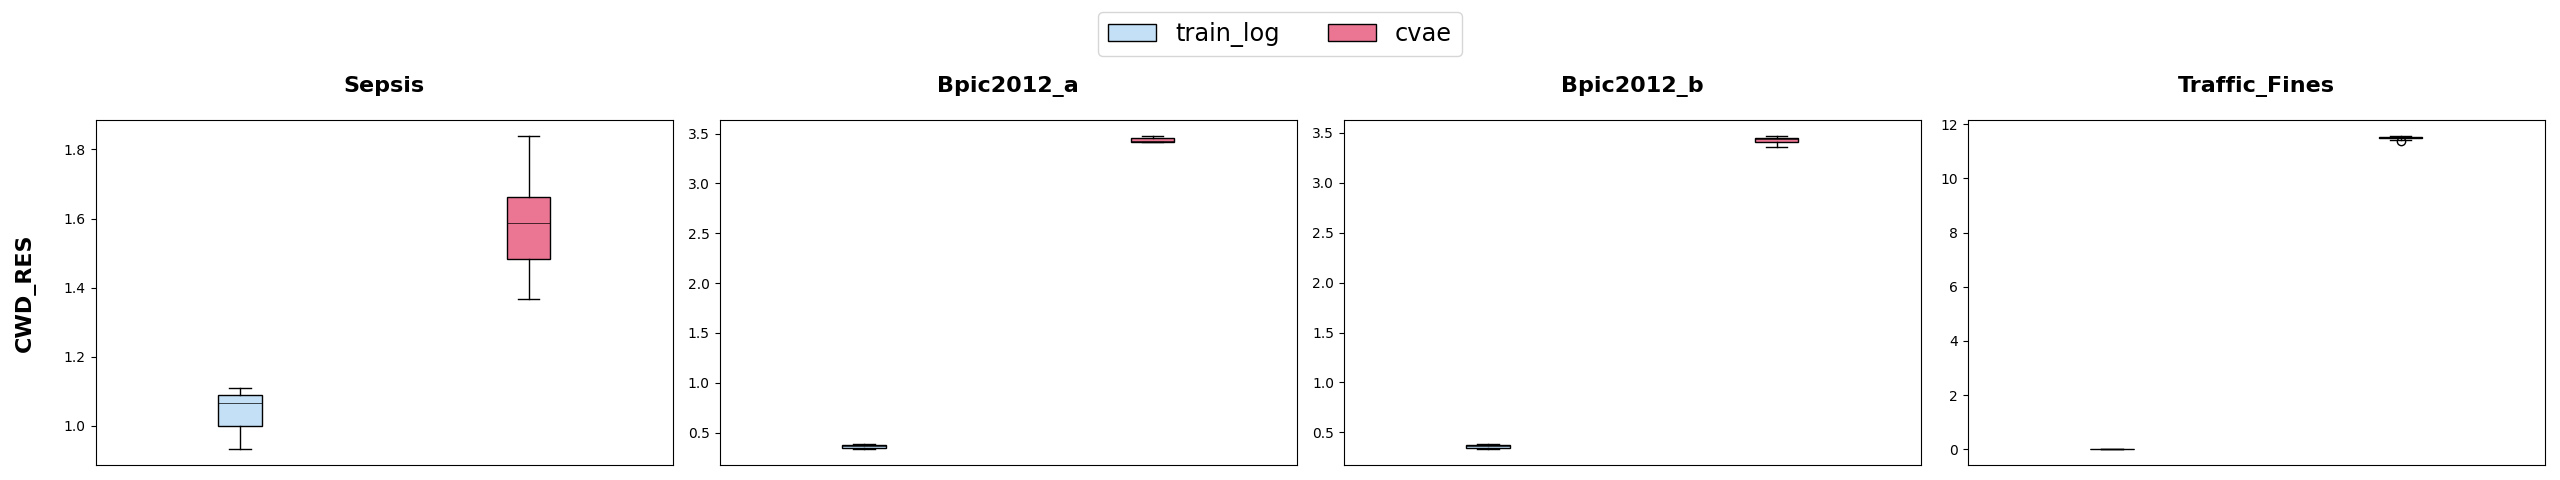
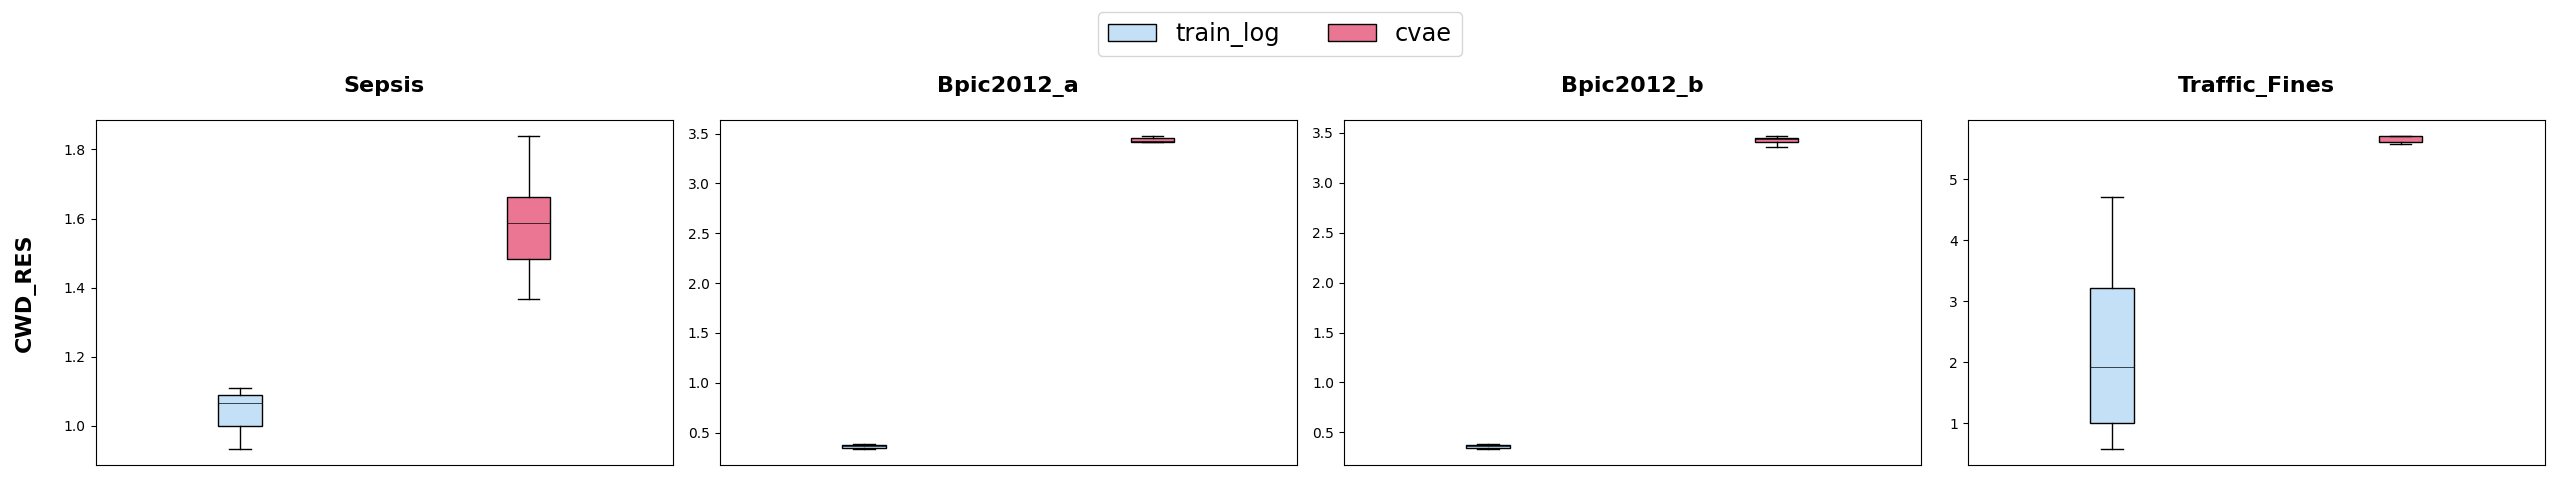
Update CWD computation for traffic_fines log

Changed region(s): [[0.8125, 0.5938, 0.8438, 0.9062], [0.9062, 0.2812, 0.9688, 0.3125]]

diff --git a/evaluation/cwd_custom.py b/evaluation/cwd_custom.py
@@ -1,0 +1,190 @@
+from statistics import mean
+
+import pandas as pd
+from scipy.stats import wasserstein_distance
+
+from log_distance_measures.config import EventLogIDs, DistanceMetric
+from log_distance_measures.earth_movers_distance import earth_movers_distance
+from log_distance_measures.config import DEFAULT_CSV_IDS
+import pandas as pd
+import matplotlib.pyplot as plt
+import numpy as np
+
+
+def circadian_workforce_distribution_distance1(
+        original_log: pd.DataFrame,
+        original_ids: EventLogIDs,
+        simulated_log: pd.DataFrame,
+        simulated_ids: EventLogIDs,
+        metric: DistanceMetric = DistanceMetric.WASSERSTEIN,
+        normalize: bool = False
+) -> float:
+    """
+    EMD (or Wasserstein Distance) between the distribution of the workforce by hour (number of observed active workers
+    in each hour) in two event logs, windowed by weekday (e.g., the workforces measured for each Monday in a log are
+    aggregated as an average into one single Monday).
+
+    :param original_log: first event log.
+    :param original_ids: mapping for the column IDs of the first event log.
+    :param simulated_log: second event log.
+    :param simulated_ids: mapping for the column IDs for the second event log.
+    :param metric: distance metric to use in the histogram comparison.
+    :param normalize: whether to normalize the distance metric to a value in [0.0, 1.0]
+
+    :return: the EMD between the timestamp distribution of the two event logs windowed by weekday.
+    """
+    # Get discretized start and/or end timestamps
+    original_discrete_events = _discretize1(original_log, original_ids)
+    simulated_discrete_events = _discretize1(simulated_log, simulated_ids)
+    # Compute the distance between the instant in the event logs for each weekday
+    distances = []
+    for week_day in range(7):  # All weekdays
+        original_window = original_discrete_events[original_discrete_events['weekday'] == week_day]
+        simulated_window = simulated_discrete_events[simulated_discrete_events['weekday'] == week_day]
+        if len(original_window) > 0 and len(simulated_window) > 0:
+            # Compute 2-D dict with each bin (hour) and its number of observations
+            original_2d = original_window.drop('weekday', axis=1).set_index('hour')['workforce'].to_dict()
+            simulated_2d = simulated_window.drop('weekday', axis=1).set_index('hour')['workforce'].to_dict()
+            # Both have observations in this weekday
+            if metric == DistanceMetric.EMD:
+                distances += [earth_movers_distance(original_2d, simulated_2d) / sum(original_window['workforce'])]
+            else:
+                # Transform to 1D array
+                original_1d = [element for key in original_2d for element in [key] * int(original_2d[key] * 100)]
+                simulated_1d = [element for key in simulated_2d for element in [key] * int(simulated_2d[key] * 100)]
+                # Measure 1-WD
+
+                # Create histograms
+                plt.figure(figsize=(10, 5))
+
+                plt.subplot(1, 2, 1)
+                plt.hist(original_1d, bins=len(original_2d), alpha=0.7, color='blue', edgecolor='black')
+                plt.title("Original Distribution")
+                plt.xlabel("Value")
+                plt.ylabel("Frequency")
+
+                plt.subplot(1, 2, 2)
+                plt.hist(simulated_1d, bins=len(simulated_2d), alpha=0.7, color='red', edgecolor='black')
+                plt.title("Simulated Distribution")
+                plt.xlabel("Value")
+                plt.ylabel("Frequency")
+
+                plt.tight_layout()
+                plt.show()
+
+                distances += [wasserstein_distance(original_1d, simulated_1d)]
+        elif len(original_window) == 0 and len(simulated_window) == 0:
+            # Both have no observations in this weekday
+            distances += [0.0]
+        else:
+            # Only one has observations in this weekday, penalize with max distance value
+            distances += [23.0]  # 23 is the maximum value for two histograms with values between 0 and 23.
+    # Compute distance metric
+    print(distances)
+    distance = mean(distances)
+    if normalize:
+        distance = distance / 23.0
+    # Return metric
+    return distance
+
+def circadian_workforce_distribution_distance_weekly(
+        original_log: pd.DataFrame,
+        original_ids: EventLogIDs,
+        simulated_log: pd.DataFrame,
+        simulated_ids: EventLogIDs,
+        metric: DistanceMetric = DistanceMetric.WASSERSTEIN,
+        normalize: bool = False
+) -> float:
+    """
+    EMD (or Wasserstein Distance) between the distribution of the workforce by hour (number of observed active workers
+    in each hour) in two event logs, windowed by weekday (e.g., the workforces measured for each Monday in a log are
+    aggregated as an average into one single Monday).
+
+    :param original_log: first event log.
+    :param original_ids: mapping for the column IDs of the first event log.
+    :param simulated_log: second event log.
+    :param simulated_ids: mapping for the column IDs for the second event log.
+    :param metric: distance metric to use in the histogram comparison.
+    :param normalize: whether to normalize the distance metric to a value in [0.0, 1.0]
+
+    :return: the EMD between the timestamp distribution of the two event logs windowed by weekday.
+    """
+    # Get discretized start and/or end timestamps
+    original_discrete_events = _discretize1(original_log, original_ids).drop('hour', axis=1)
+    original_discrete_events = [int(x) for x in original_discrete_events['workforce'].tolist()]
+    # print(original_discrete_events)
+
+    simulated_discrete_events = _discretize1(simulated_log, simulated_ids).drop('hour', axis=1)
+    simulated_discrete_events = [int(x) for x in simulated_discrete_events['workforce'].tolist()]
+    # print(simulated_discrete_events)
+
+    distances = []
+
+    distances += [wasserstein_distance(original_discrete_events, simulated_discrete_events)]
+    # Compute distance metric
+    distance = mean(distances)
+
+    # Return metric
+    return distance
+
+
+def _discretize1(
+        event_log: pd.DataFrame,
+        log_ids: EventLogIDs,
+) -> pd.DataFrame:
+    """
+    Create a pd.Dataframe storing, for each hour (0-23) of each weekday, the average number of different resources
+    that were actively working (an event associated to them was registered in that hour) through the entire event log.
+
+    :param event_log: event log to measure the workforces of.
+    :param log_ids: mapping for the column IDs of the event log.
+
+    :return: A pd.Dataframe with the average active workforce for each hour for each day of the week.
+    """
+    # Get the instants to discretize
+    # log_ids.start_time = "time:timestamp"
+    # log_ids.resource = "resource"
+    # log_ids.end_time = "time:timestamp"
+    start_times = event_log[[log_ids.start_time, log_ids.resource]].rename(columns={log_ids.start_time: 'instant'})
+    end_times = event_log[[log_ids.end_time, log_ids.resource]].rename(columns={log_ids.end_time: 'instant'})
+    discretized = pd.concat([start_times, end_times]).reset_index(drop=True)
+    # Add their weekday, hour and combination day-hour
+    discretized['weekday'] = discretized['instant'].apply(lambda instant: instant.day_of_week)
+    discretized['hour'] = discretized['instant'].apply(lambda instant: instant.hour)
+    discretized['day-hour'] = discretized['instant'].apply(lambda instant: instant.strftime(format="%Y-%m-%d %H"))
+    # Compute observed number of Mondays, Tuesdays...
+    discretized['day'] = discretized['instant'].apply(lambda instant: instant.strftime(format="%Y-%m-%d"))
+    days = discretized[['day', 'weekday']].drop_duplicates().groupby('weekday').size().to_dict()
+    # Keep unique resources per day-hour
+    discretized.drop_duplicates(subset=['day-hour', log_ids.resource], inplace=True)
+    # Aggregate number of resources per day of the week and hour, and compute avg
+    discretized = discretized.groupby(['weekday', 'hour']).size().reset_index().rename(columns={0: 'workforce'})
+    discretized['workforce'] = discretized.apply(lambda row: row['workforce'] / days[row['weekday']], axis=1)
+    # Return dataframe with weekday, hour, and average resources
+    return discretized
+
+
+if __name__ == '__main__':
+    event_log_ids = EventLogIDs(  # These values are stored in DEFAULT_CSV_IDS
+            case="Case ID",
+            activity="Activity",
+            start_time="time:timestamp",
+            end_time="time:timestamp",
+            resource="resource"
+        )
+
+
+    original_log = pd.read_csv("/Users/francescameneghello/Downloads/traffic_fines_TEST.csv", sep=";")
+    original_log[event_log_ids.start_time] = pd.to_datetime(original_log[event_log_ids.start_time], utc=True)
+    original_log[event_log_ids.end_time] = pd.to_datetime(original_log[event_log_ids.end_time], utc=True)
+
+    simulated_log = pd.read_csv("/Users/francescameneghello/Downloads/gen1.csv", sep=";")
+    simulated_log[event_log_ids.start_time] = pd.to_datetime(simulated_log[event_log_ids.start_time], utc=True)
+    simulated_log[event_log_ids.end_time] = simulated_log[event_log_ids.end_time].dt.date
+    simulated_log[event_log_ids.end_time] = pd.to_datetime(simulated_log[event_log_ids.end_time], utc=True)
+
+
+    distance = circadian_workforce_distribution_distance_weekly(
+        original_log, EventLogIDs,  # First event log and its column id mappings
+        simulated_log, EventLogIDs,  # Second event log and its column id mappings
+    )
